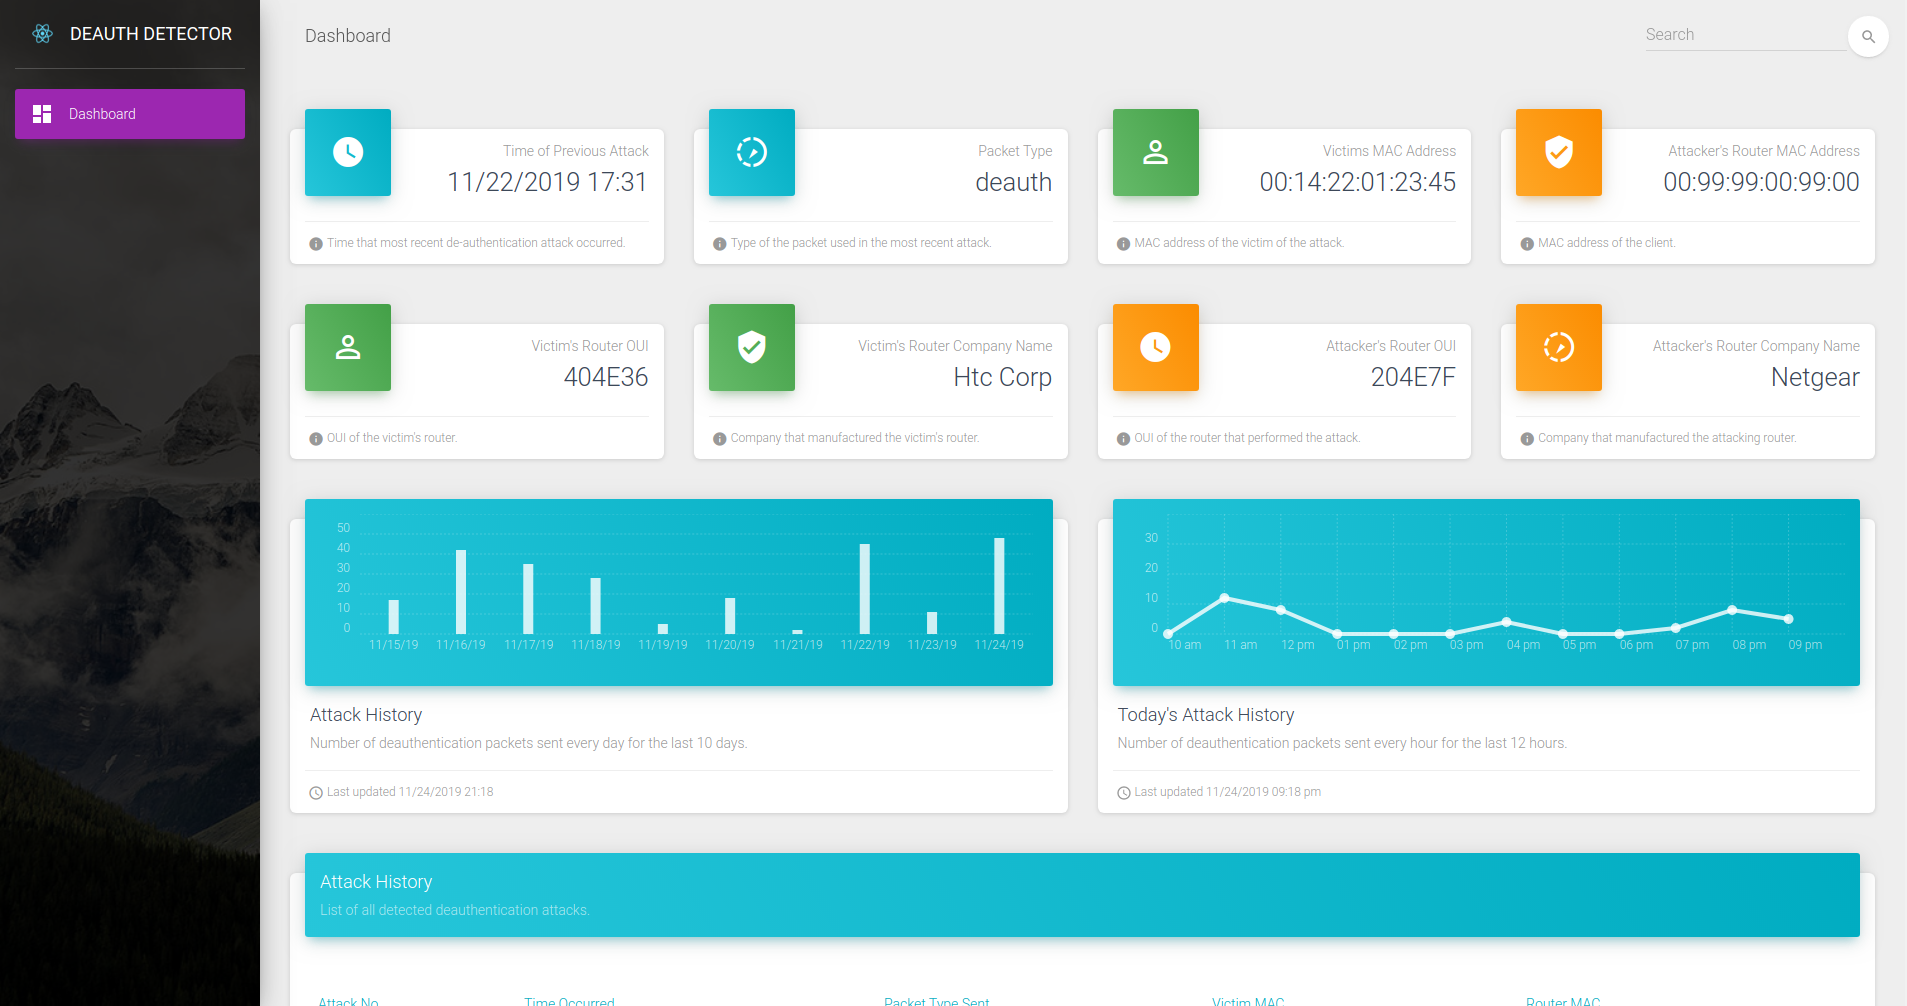
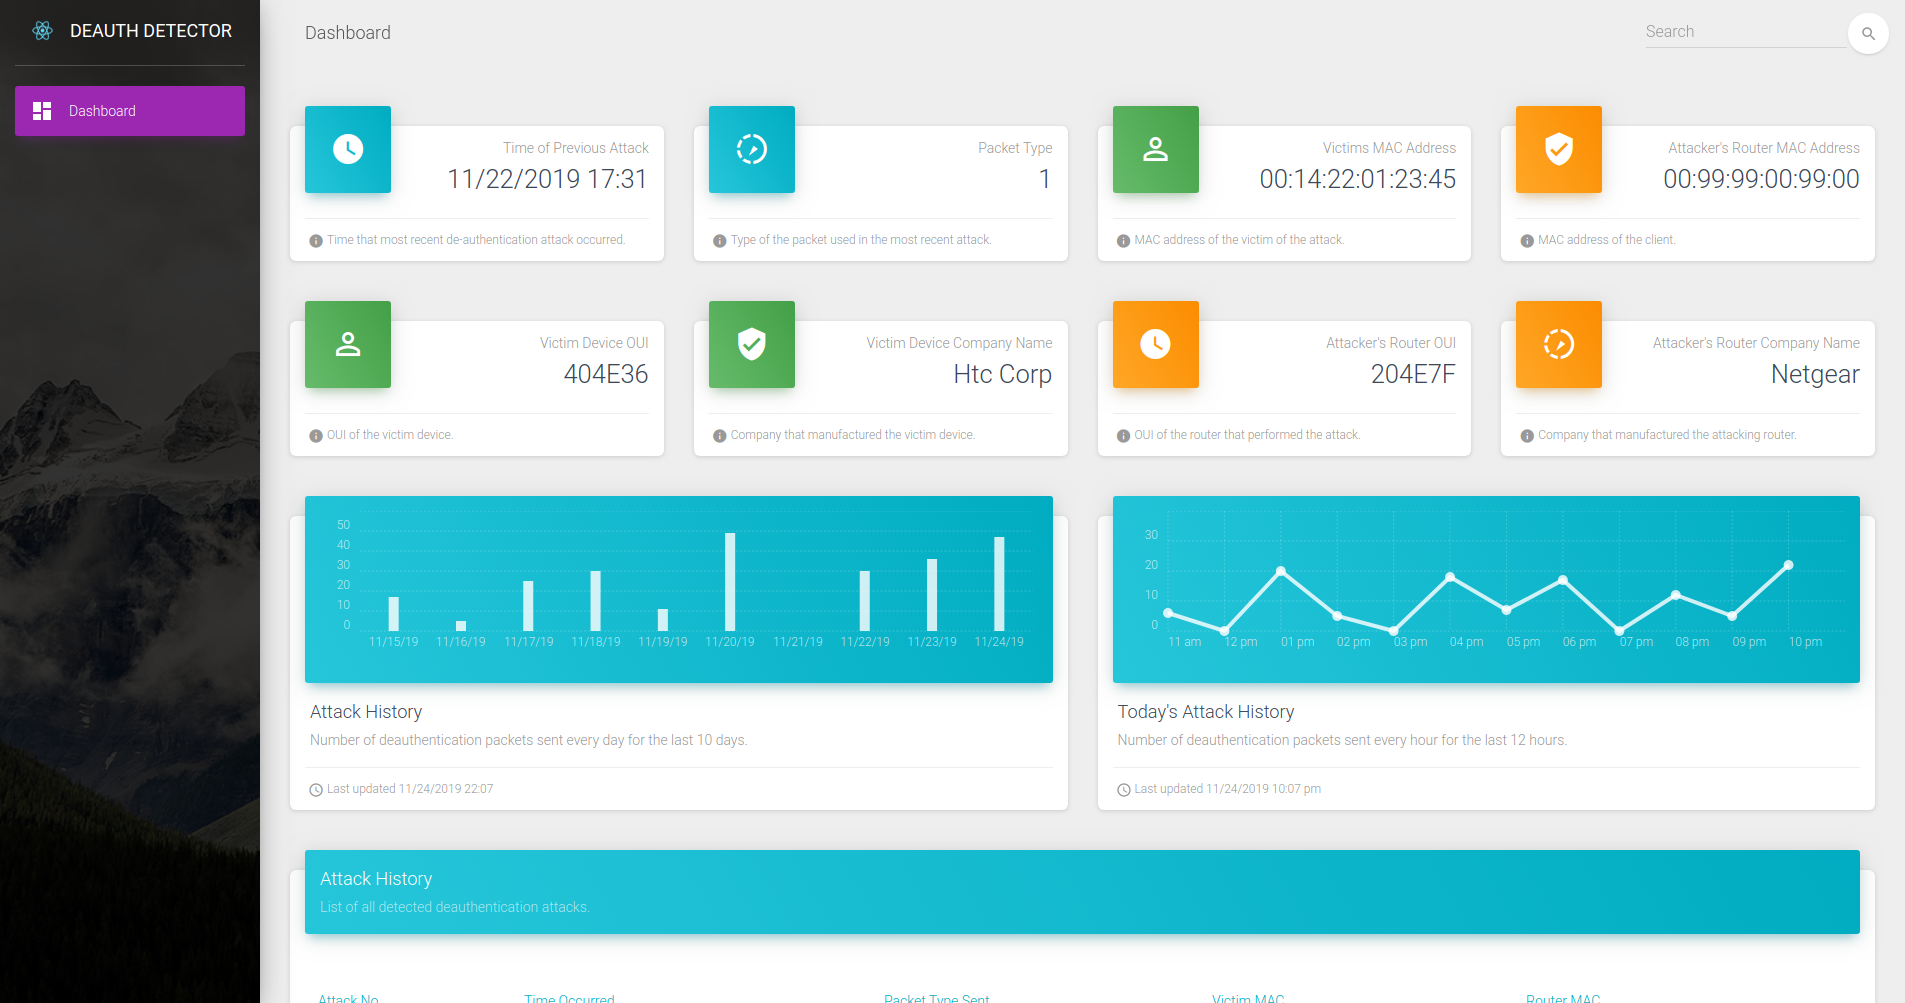
Fix incorrect labels on the dashboard

diff --git a/deauth-monitor-web/deauth-web-ui/src/components/DeauthDetector/LastAttackInfo.js b/deauth-monitor-web/deauth-web-ui/src/components/DeauthDetector/LastAttackInfo.js
@@ -96,13 +96,13 @@ const LastAttackInfo = ({ lastAttackData }) => {
               <CardIcon color="success">
                 <Icon>person_outline</Icon>
               </CardIcon>
-              <p className={classes.cardCategory}>Victim's Router OUI</p>
+              <p className={classes.cardCategory}>Victim's Device OUI</p>
               <h3 className={classes.cardTitle}>{lastAttackData.victimInfo ? lastAttackData.victimInfo.oui : ''}</h3>
             </CardHeader>
             <CardFooter stats>
               <div className={classes.stats}>
                 <Icon>info</Icon>
-                OUI of the victim's router.
+                OUI of the victim device.
               </div>
             </CardFooter>
           </Card>
@@ -113,13 +113,13 @@ const LastAttackInfo = ({ lastAttackData }) => {
               <CardIcon color="success">
                 <Icon>verified_user</Icon>
               </CardIcon>
-              <p className={classes.cardCategory}>Victim's Router Company Name</p>
+              <p className={classes.cardCategory}>Victim's Device Company Name</p>
               <h3 className={classes.cardTitle}>{lastAttackData.victimInfo ? lastAttackData.victimInfo.company_name : ''}</h3>
             </CardHeader>
             <CardFooter stats>
               <div className={classes.stats}>
                 <Icon>info</Icon>
-                Company that manufactured the victim's router.
+                Company that manufactured the victim device.
               </div>
             </CardFooter>
           </Card>
